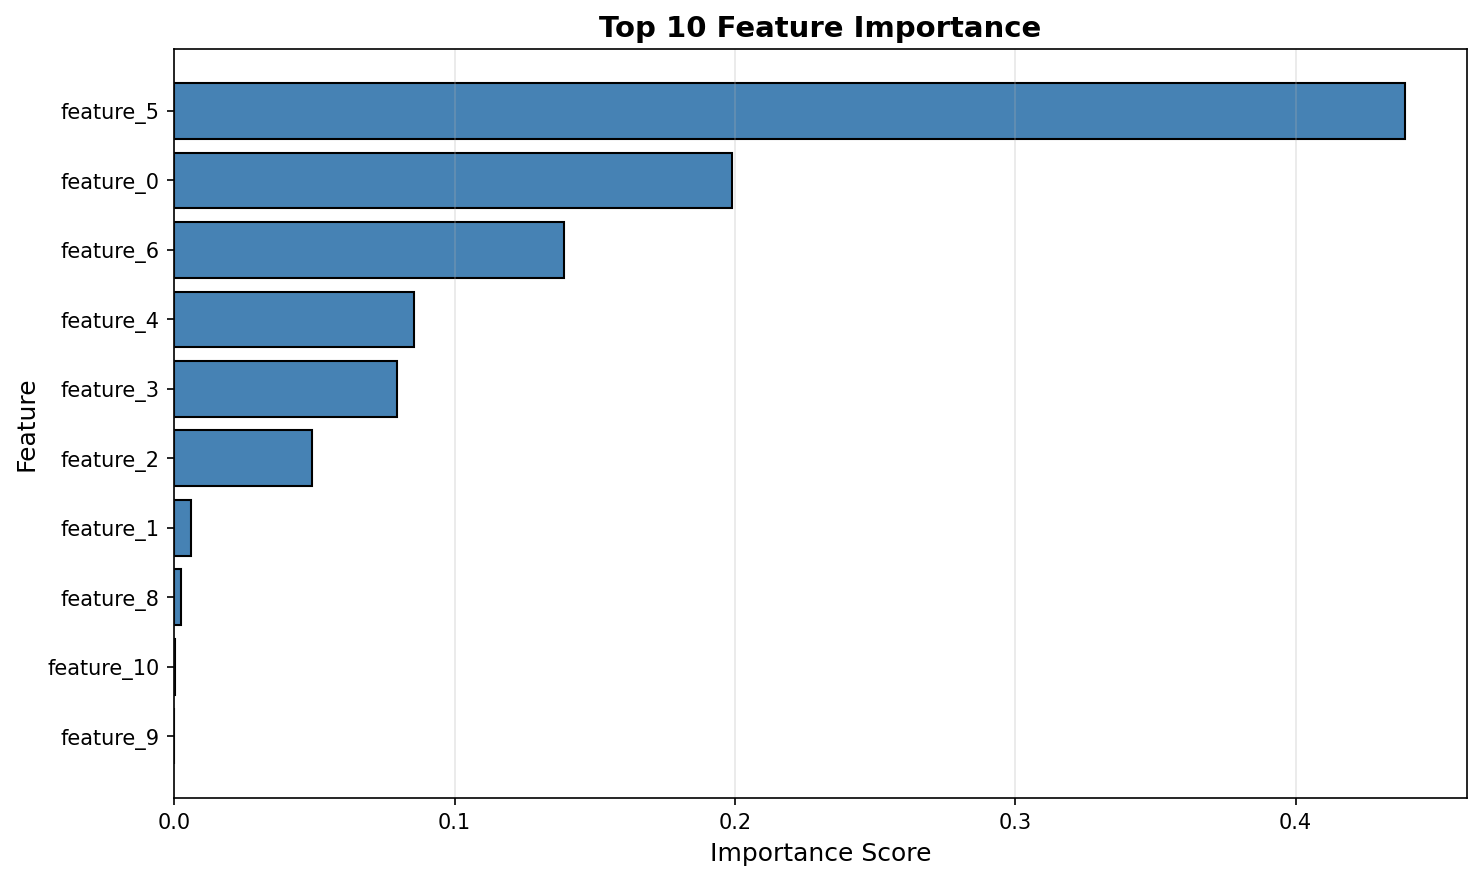
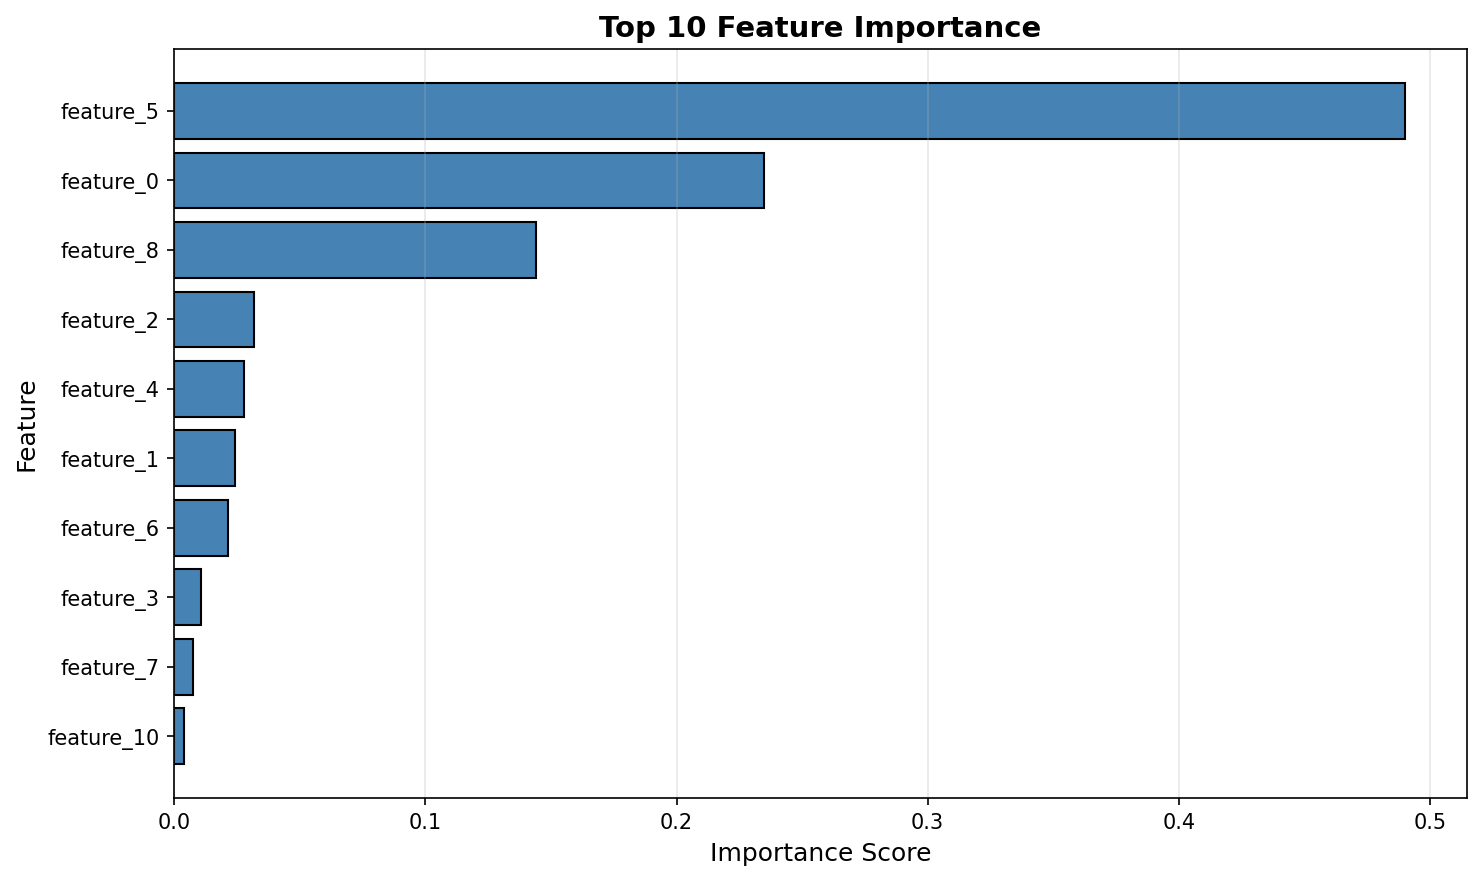
Update ML Predictions tab with improved error handling
- Added technical initialization instructions for missing model/features
- Updated error messages to English with clear CLI commands
- Updated database and reports

🤖 Generated with [Claude Code](https://claude.com/claude-code)

diff --git a/FleetGuard/main.py b/FleetGuard/main.py
@@ -695,12 +695,42 @@ with tab_rules:
 
 # === לשונית 3: תחזיות ML (טאב חדש!) ===
 with tab3:
-    st.header("🎯 תחזיות ML - GradientBoosting Model")
-    st.caption("תחזיות עלות תחזוקה בזמן אמת מבוססות על המודל שאימן Agent E")
+    st.header("🎯 ML Predictions - GradientBoosting Model")
+    st.caption("Real-time maintenance cost predictions powered by Agent E training cycle")
     st.markdown("---")
 
+    # Helper function to display initialization instructions
+    def show_initialization_instructions(missing_component: str):
+        """Display technical instructions for initializing the AI training sequence."""
+        st.error(f"❌ {missing_component}")
+        st.markdown("---")
+        st.markdown("### Technical Initialization Instructions")
+        st.markdown("""
+        **To initialize the AI training sequence, execute the following steps:**
+
+        1. **Feature Engineering (Agent D):**
+           ```bash
+           cd FleetGuard
+           python -c "from src.agents.feature_engineer_agent import FeatureEngineer; FeatureEngineer().run()"
+           ```
+           *Output:* `data/processed/features.csv`
+
+        2. **Model Training (Agent E):**
+           ```bash
+           python -c "from src.agents.model_trainer_agent import ModelTrainer; ModelTrainer().run()"
+           ```
+           *Output:* `models/model.pkl`, `models/model_metadata.json`
+
+        **Alternative:** Run the full AI system via PowerShell:
+        ```powershell
+        .\\RUN_AI_SYSTEM.ps1
+        ```
+        Select Option 1 to execute the complete training pipeline.
+        """)
+        st.info("ℹ The ML predictions require both the trained model and feature file to be present.")
+
     try:
-        # טעינת מודל מוקש (cached)
+        # Load cached ML predictor
         predictor = load_ml_predictor()
 
         if predictor and predictor.model:
@@ -904,12 +934,13 @@ with tab3:
                                         else:
                                             st.error(f"❌ {prediction['error']}")
                                     else:
-                                        st.warning(f"⚠ לא נמצאו פיצ'רים לרכב {selected_vehicle}")
+                                        st.warning(f"⚠ No feature data found for vehicle {selected_vehicle}. Regenerate features.csv to include this vehicle.")
                                 else:
-                                    st.error("❌ קובץ פיצ'רים לא נמצא. הרץ את המערכת AI קודם.")
+                                    show_initialization_instructions("Feature file not found: data/processed/features.csv")
 
                             except Exception as e:
-                                st.error(f"❌ שגיאה: {str(e)}")
+                                st.error(f"❌ Prediction error: {str(e)}")
+                                st.exception(e)
                 else:
                     st.warning("⚠ אין רכבים במערכת")
 
@@ -989,12 +1020,13 @@ with tab3:
                                     st.plotly_chart(fig, use_container_width=True)
 
                                 else:
-                                    st.error("❌ לא הצלחתי לחזות")
+                                    st.error("❌ Fleet prediction failed. Verify model integrity.")
                             else:
-                                st.error("❌ קובץ פיצ'רים לא נמצא")
+                                show_initialization_instructions("Feature file not found: data/processed/features.csv")
 
                         except Exception as e:
-                            st.error(f"❌ שגיאה: {str(e)}")
+                            st.error(f"❌ Fleet prediction error: {str(e)}")
+                            st.exception(e)
 
             # תת-טאב 3: השוואה
             with subtab3:
@@ -1064,18 +1096,20 @@ with tab3:
                                         st.info(f"📊 **{vehicle2}** יקר ב-₪{abs(diff):.2f} ({abs(diff_pct):.1f}%) מ-**{vehicle1}**")
 
                     else:
-                        st.error("❌ קובץ פיצ'רים לא נמצא")
+                        show_initialization_instructions("Feature file not found: data/processed/features.csv")
 
                 except Exception as e:
-                    st.error(f"❌ שגיאה: {str(e)}")
+                    st.error(f"❌ Comparison error: {str(e)}")
+                    st.exception(e)
 
         else:
-            st.error("❌ המודל לא נטען. הרץ את המערכת AI קודם (RUN_AI_SYSTEM.ps1 → Option 1)")
+            show_initialization_instructions("Model not loaded. The trained ML model (model.pkl) was not found or failed to load.")
 
     except ImportError as e:
-        st.error(f"❌ לא ניתן לטעון MLPredictor: {str(e)}")
+        show_initialization_instructions(f"MLPredictor module import failed: {str(e)}")
     except Exception as e:
-        st.error(f"❌ שגיאה: {str(e)}")
+        st.error(f"❌ Unexpected error: {str(e)}")
+        st.exception(e)
 
 # === לשונית 5: נתונים ===
 with tab5:

diff --git a/FleetGuard/suppress_warnings.py b/FleetGuard/suppress_warnings.py
@@ -26,3 +26,4 @@ os.environ['STREAMLIT_LOGGER_LEVEL'] = 'error'
 
 
 
+

diff --git a/FleetGuard/reports/evaluation_report.md b/FleetGuard/reports/evaluation_report.md
@@ -1,7 +1,7 @@
 # Model Evaluation Report
 
-**Generated:** 2025-12-17 20:34:00
-**Model:** GradientBoosting
+**Generated:** 2025-12-27 23:15:15
+**Model:** RandomForest
 
 ---
 
@@ -9,42 +9,42 @@
 
 | Metric | Value | Status |
 |--------|-------|--------|
-| R² Score | 0.9688 | ✅ Pass (Target: > 0.75) |
-| RMSE | ₪16.24 | ✅ Pass (Target: < ₪500) |
-| MAE | ₪11.49 | ✅ Pass (Target: < ₪400) |
-| MAPE | 4.44% | ✅ Pass (Target: < 15%) |
+| R² Score | 0.9532 | ✅ Pass (Target: > 0.75) |
+| RMSE | ₪19.53 | ✅ Pass (Target: < ₪500) |
+| MAE | ₪14.92 | ✅ Pass (Target: < ₪400) |
+| MAPE | 5.87% | ✅ Pass (Target: < 15%) |
 
 ## Prediction Statistics
 
 | Statistic | Value |
 |-----------|-------|
-| Mean Prediction | ₪241.05 |
-| Std Prediction | ₪84.48 |
-| Mean Actual | ₪244.56 |
-| Std Actual | ₪92.02 |
-| Min Error | ₪-15.04 |
-| Max Error | ₪50.49 |
+| Mean Prediction | ₪236.16 |
+| Std Prediction | ₪82.24 |
+| Mean Actual | ₪242.64 |
+| Std Actual | ₪90.31 |
+| Min Error | ₪-23.89 |
+| Max Error | ₪45.61 |
 
 ## Model Performance Assessment
 
 ✅ **Excellent Performance**: The model explains over 90% of variance in maintenance costs.
 
-The model predicts monthly maintenance costs with an average error of ±₪11.49 (4.4% relative error).
+The model predicts monthly maintenance costs with an average error of ±₪14.92 (5.9% relative error).
 
 ## Feature Importance
 
 | Rank | Feature | Importance Score |
 |------|---------|------------------|
-| 1 | feature_5 | 0.4391 |
-| 2 | feature_0 | 0.1991 |
-| 3 | feature_6 | 0.1391 |
-| 4 | feature_4 | 0.0855 |
-| 5 | feature_3 | 0.0796 |
-| 6 | feature_2 | 0.0491 |
-| 7 | feature_1 | 0.0061 |
-| 8 | feature_8 | 0.0023 |
-| 9 | feature_10 | 0.0001 |
-| 10 | feature_9 | 0.0001 |
+| 1 | feature_5 | 0.4901 |
+| 2 | feature_0 | 0.2349 |
+| 3 | feature_8 | 0.1439 |
+| 4 | feature_2 | 0.0317 |
+| 5 | feature_4 | 0.0279 |
+| 6 | feature_1 | 0.0243 |
+| 7 | feature_6 | 0.0215 |
+| 8 | feature_3 | 0.0108 |
+| 9 | feature_7 | 0.0075 |
+| 10 | feature_10 | 0.0038 |
 
 ## Visualizations
 
@@ -53,10 +53,10 @@ The model predicts monthly maintenance costs with an average error of ±₪11.49
 
 ## Business Impact
 
-With an MAE of ₪11.49, the model can help predict monthly maintenance costs within approximately ±₪23 range (95% confidence).
+With an MAE of ₪14.92, the model can help predict monthly maintenance costs within approximately ±₪30 range (95% confidence).
 
 **Key Benefits:**
-- Proactive budget planning with 95.6% accuracy
+- Proactive budget planning with 94.1% accuracy
 - Early identification of high-cost vehicles
 - Optimized maintenance scheduling
 
@@ -66,4 +66,4 @@ With an MAE of ₪11.49, the model can help predict monthly maintenance costs wi
 
 ---
 
-_Report generated by Agent F (Model Evaluator) on 2025-12-17_
+_Report generated by Agent F (Model Evaluator) on 2025-12-27_

diff --git a/FleetGuard/reports/flow_summary.md b/FleetGuard/reports/flow_summary.md
@@ -1,7 +1,7 @@
 # FleetGuard AI - Multi-Crew Flow Execution Summary
 
-**Execution Date:** 2025-12-17 20:33:59
-**Total Duration:** 1.44 seconds
+**Execution Date:** 2025-12-27 23:15:13
+**Total Duration:** 2.13 seconds
 **Flow Status:** SUCCESS
 
 ---
@@ -13,7 +13,7 @@
 **Status:** SUCCESS
 
 **Outputs:**
-- Execution time: 0.02 seconds
+- Execution time: 0.03 seconds
 - Steps completed: 3/3
 
 ### Crew 2: Data Scientist Crew
@@ -21,14 +21,14 @@
 **Status:** SUCCESS
 
 **Outputs:**
-- Execution time: 1.41 seconds
+- Execution time: 2.10 seconds
 - Steps completed: 3/3
 
 **Model Performance:**
-- Model Type: GradientBoosting
-- R2 Score: 0.9688
-- RMSE: 16.24
-- MAE: 11.49
+- Model Type: RandomForest
+- R2 Score: 0.9532
+- RMSE: 19.53
+- MAE: 14.92
 
 ---
 
@@ -58,4 +58,4 @@
 
 ---
 
-_Flow execution report generated on 2025-12-17 20:34:00_
+_Flow execution report generated on 2025-12-27 23:15:15_
